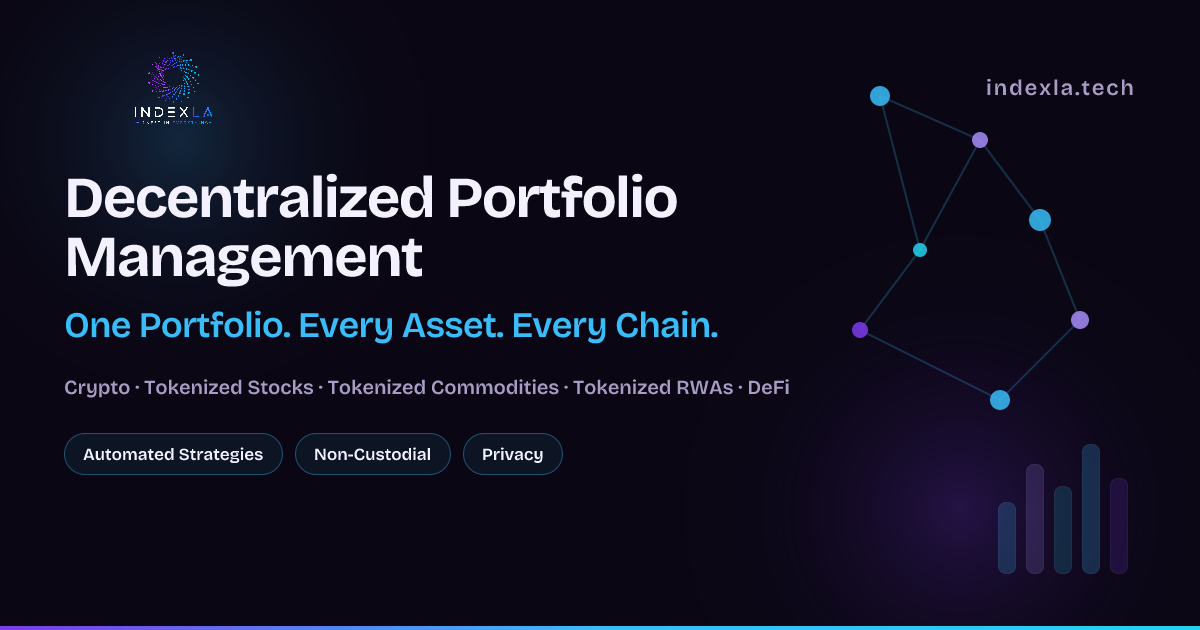
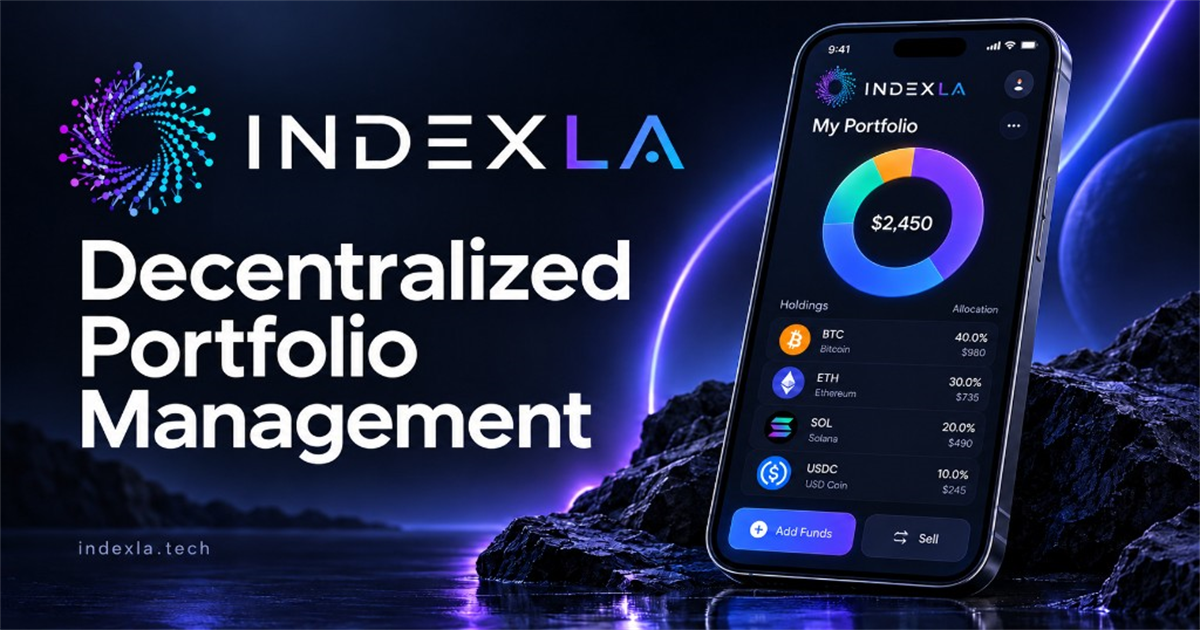
Enlarge the Demo App button and add a branded link preview.

diff --git a/src/components/layout/SiteHeader.tsx b/src/components/layout/SiteHeader.tsx
@@ -258,9 +258,12 @@ export function SiteHeader() {
           <ThemeToggle />
           <a
             href="https://app.indexla.tech"
-            className="inline-flex items-center rounded-full bg-gradient-to-r from-purple to-blue px-2.5 py-2 text-[0.68rem] font-bold tracking-[0.08em] text-white shadow-[0_8px_24px_rgba(59,130,246,0.35)] transition-all hover:brightness-110 sm:px-3 sm:py-2 sm:text-[0.72rem] xl:px-3.5 xl:py-2.5 xl:text-[0.78rem]"
+            target="_blank"
+            rel="noopener noreferrer"
+            className="inline-flex items-center rounded-full bg-gradient-to-r from-purple to-blue px-3.5 py-2.5 text-[0.82rem] font-bold tracking-[0.06em] text-white shadow-[0_10px_28px_rgba(59,130,246,0.45)] transition-all hover:brightness-110 sm:px-4 sm:py-2.5 sm:text-[0.92rem] xl:px-5 xl:py-3 xl:text-[1.05rem]"
           >
             DEMO APP
+            <span className="sr-only"> (opens in a new tab)</span>
           </a>
           <button
             type="button"

diff --git a/src/app/layout.tsx b/src/app/layout.tsx
@@ -23,12 +23,12 @@ const body = Source_Sans_3({
 const SITE_URL = "https://indexla.tech";
 
 const OG_IMAGE = {
-  url: "/og.png",
-  secureUrl: `${SITE_URL}/og.png`,
+  url: `${SITE_URL}/og.jpg`,
+  secureUrl: `${SITE_URL}/og.jpg`,
   width: 1200,
   height: 630,
-  type: "image/png",
-  alt: "INDEXLA — Decentralized Portfolio Management. One Portfolio. Every Asset. Every Chain.",
+  type: "image/jpeg",
+  alt: "INDEXLA — Decentralized Portfolio Management",
 } as const;
 
 export const metadata: Metadata = {
